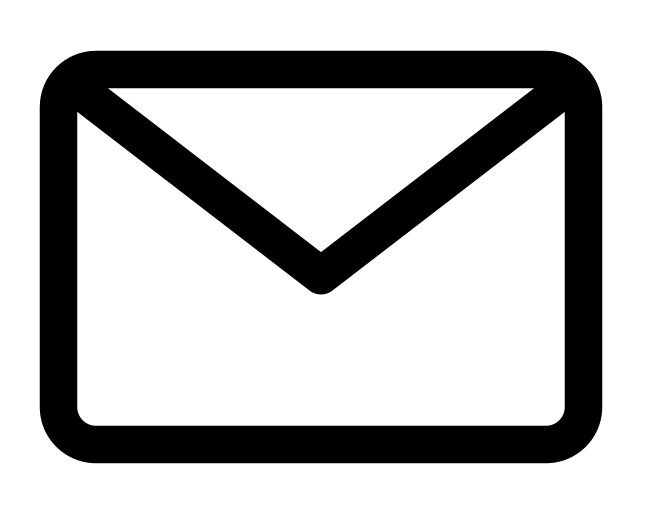
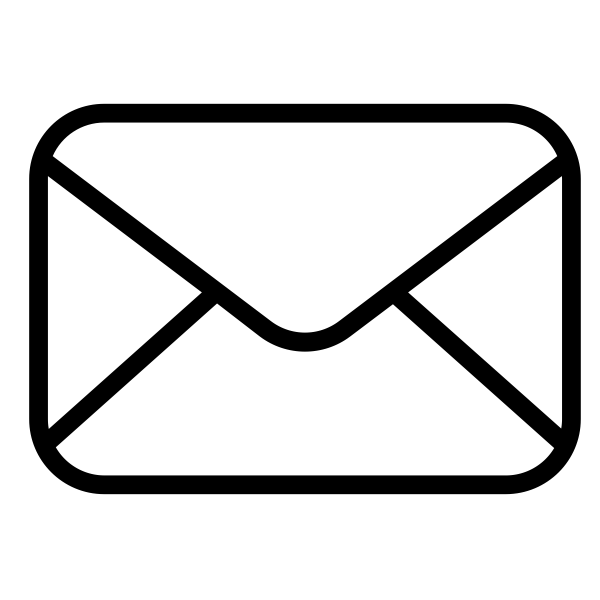
added styling, images

diff --git a/src/components/contact/Contact.js b/src/components/contact/Contact.js
@@ -1,7 +1,6 @@
 import React from 'react';
 
-import { FontAwesomeIcon } from '@fortawesome/react-fontawesome'
-
+import Email from '../../images/Email2.svg';
 import LinkedIn from '../../images/linkedin.svg';
 import Github from '../../images/github.svg';
 
@@ -9,17 +8,17 @@ import './Contact.css';
 
 export default function Contact() {
   return (
-    <div className='contact-section'>
+    <div id='contact-section'>
       <h2 className="contact-me">Contact Me</h2>
       <ul className='contact-icons'>
         <li>
           <a className="email" href="mailto:jwong.ncsu@gmail.com">
-            <FontAwesomeIcon icon='paper-plane' className='contact-icon fa-2x' />
+            <img src={Email} alt='email' className='contact-icon' />
           </a>
         </li>
         <li>
           <a className="github" href="https://github.com/jmw7">
-            <img src={Github} alt='github' className='contact-icon' id='email' />
+            <img src={Github} alt='github' className='contact-icon' />
           </a>
         </li>
         <li>

diff --git a/src/components/hero/Hero.css b/src/components/hero/Hero.css
@@ -3,8 +3,8 @@ p {
   margin-bottom: 5px;
 }
 
-h2{
-  font-size: 30px;
+.hero-description h2{
+  font-size: 24px;
 }
 
 .hero-section {
@@ -44,6 +44,10 @@ h2{
   #bioPhoto {
     height: 300px;
   }
+
+  .hero-description h2{
+    font-size: 28px;
+  }
 }
 
 
@@ -82,15 +86,14 @@ h2{
     justify-content: space-evenly;
   }
 
-  
   .quick-description {
     padding-top: 25px;
     font-size: 1.5em;
   }
 
-  h2 {
+  .hero-description h2 {
     font-weight: normal;
-    font-size: 2.5em;
+    font-size: 3em;
     margin-bottom: 25px;
   }
 
@@ -104,7 +107,7 @@ h2{
   }
 
   #bioPhoto {
-    height: 500px;
+    height: 400px;
     border-radius: 10px;
     margin: 0;
   }
@@ -122,17 +125,13 @@ h2{
     justify-content: space-evenly;
   }
 
-  h2 {
-    font-weight: normal;
-    font-size: 4em;
-    margin-bottom: 25px;
+  div.hero-description {
+    margin-left: 45px;
   }
 
-  .quick-description {
-    padding-top: 25px;
-    font-size: 1.75em;
+  .hero-description h2 {
+    text-align: left;
   }
-
   
 
   .bio-item p {

diff --git a/src/components/header/Header.js b/src/components/header/Header.js
@@ -6,12 +6,13 @@ export default function Header() {
   return (
     <header role="banner">
       <div className="header">
-        <h1 className="header-name">Justin Mendola-Wong</h1>
+        <h1 className="header-name"><Link smooth to='/#home' className='home'>Justin Mendola-Wong</Link></h1>
 
         <div className="menu">
           <ul className='links'>
             <li><Link smooth to='/#bio-section' className="jumper">Bio</Link></li>
             <li><Link smooth to='#project-section' className="jumper">Projects</Link></li>
+            <li><Link smooth to='#contact-section' className="jumper">Contact</Link></li>
           </ul>
         </div>
       </div>

diff --git a/src/components/hero/Hero.js b/src/components/hero/Hero.js
@@ -9,13 +9,13 @@ import './Hero.css';
 
 export default function Hero() {
   return (
-    <div className='hero-section'>
+    <div className='hero-section' id='home'>
       <div className='hero-description'>
         <h2>Hey. My name is Justin.</h2>
         <div className='quick-description'>
           <p>
             I'm a <strong>full-stack developer</strong> located in the greater Atlanta area.
-          <br /><br />When I'm not at the keyboard, you may find me...
+          <br />When I'm not at the keyboard, you may find me...
           </p>
           <div className='bio-item'>
             <img src={Coffee} alt='coffee' className='bio-icon' />

diff --git a/src/components/header/Header.css b/src/components/header/Header.css
@@ -31,7 +31,7 @@ li {
   margin: 0 15px;
 }
 
-.jumper {
+.jumper, .header-name a {
   text-decoration: none;
   display: inline-block;
   color: white;
@@ -49,17 +49,18 @@ li {
 
   h1.header-name {
     font-size: 2.5em;
+    padding: 10px;
   }
 
   .menu {
     position: relative;
     right: 0;
-    top: -45px;
+    top: -40px;
     float: right;
   }
 
   a.jumper{
-    font-size: 1.75em;
+    font-size: 1.5em;
   }
 
 }

diff --git a/src/components/projects/Projects.css b/src/components/projects/Projects.css
@@ -12,7 +12,7 @@ h2, h3 {
 }
 
 h3 {
-  font-size: 40px;
+  font-size: 36px;
   margin-top: 10px;
   margin-bottom: 10px;
 }
@@ -75,5 +75,8 @@ a.link:hover {
 }
 
 @media screen and (min-width: 768px){
-
+  #project-section h2 {
+    font-size: 44px;
+    margin-bottom: 25px;
+  }
 }

diff --git a/src/components/bio/Bio.css b/src/components/bio/Bio.css
@@ -28,4 +28,8 @@
   #bio-section{
     padding-top: 90px;
   }
+
+  #bio-section h2 {
+    font-size: 44px;
+  }
 }
